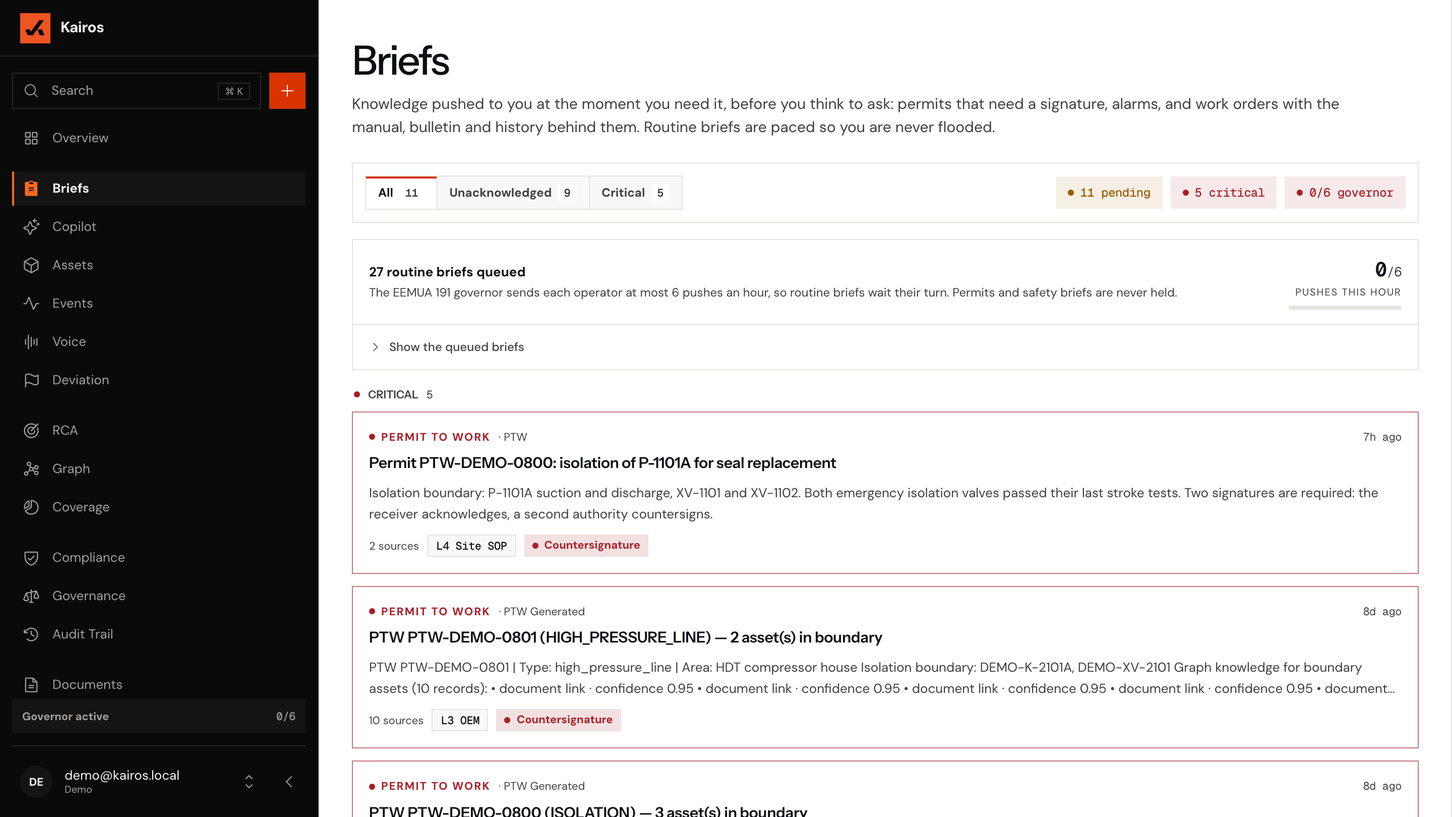
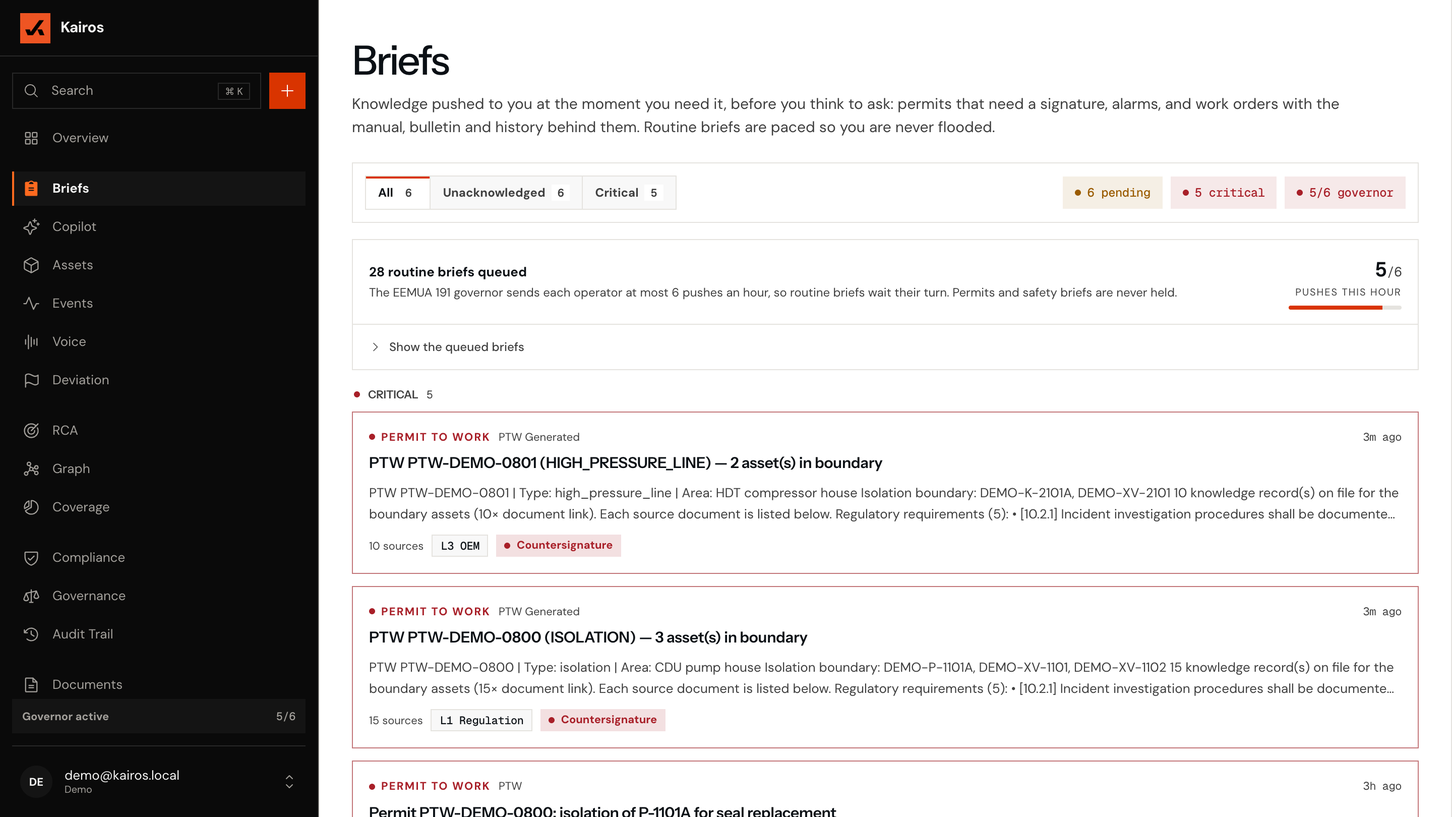
fix: rail governor pill matches the Briefs page; recapture field.png after showcase reload
The pill read its count once, before the Briefs page recorded that visit's pushes, so it
showed 0/6 beside the page's 1/6. The Briefs page now broadcasts its fresh count
(GOVERNOR_UPDATED) and the pill listens. Docs: test counts, P30 and P32 closed.

Also adds docs/problem_statement/2nd_LaserHacks_2026.md, the 2nd LaserHacks 2026 brief in
the folder's format (paraphrased, with source notes).

diff --git a/frontend/src/components/app-shell.tsx b/frontend/src/components/app-shell.tsx
@@ -7,11 +7,11 @@ import { BrandLink } from "./brand-link";
 import { MobileAppHeader } from "./mobile-app-header";
 import { CommandPalette, ShortcutsHelp, type PaletteItem } from "./command-palette";
 import { getMe, logout } from "@/lib/auth";
-import { getToken, getGovernorState, getPlantState, isStrictAuth } from "@/lib/api";
+import { GOVERNOR_UPDATED, getToken, getGovernorState, getPlantState, isStrictAuth } from "@/lib/api";
 import { flushQueue } from "@/lib/idb";
 import { getUserInitials } from "@/lib/user-initials";
 import { ADMIN_VIEW_ROLES, routeAllowed, roleHome } from "./use-role";
-import type { Role, User, GovernorEventState, PlantState } from "@/lib/types";
+import type { Role, User, GovernorEventState, GovernorState, PlantState } from "@/lib/types";
 import { capitalize, cn } from "@/lib/utils";
 import { ThemeToggle } from "./theme-toggle";
 import { PageSkeleton } from "./skeleton";
@@ -99,6 +99,14 @@ function GovernorPill({ userId }: { userId: string }) {
     getGovernorState().then((r) => { if (alive && r.data) setGov(r.data); });
     return () => { alive = false; };
   }, [userId]);
+  useEffect(() => {
+    const onUpdate = (event: Event) => {
+      const fresh = (event as CustomEvent<GovernorState>).detail;
+      setGov((g) => (g ? { ...g, ...fresh } : g));
+    };
+    window.addEventListener(GOVERNOR_UPDATED, onUpdate);
+    return () => window.removeEventListener(GOVERNOR_UPDATED, onUpdate);
+  }, []);
   if (!gov) return null;
   const suppressed = gov.state === "suppressed";
   return (

diff --git a/frontend/src/components/brief-inbox.test.tsx b/frontend/src/components/brief-inbox.test.tsx
@@ -1,5 +1,6 @@
 import { cleanup, render, screen } from "@testing-library/react";
-import { afterEach, describe, expect, it } from "vitest";
+import { afterEach, describe, expect, it, vi } from "vitest";
+import { GOVERNOR_UPDATED } from "@/lib/api";
 import type { BriefsResponse } from "@/lib/types";
 import { BriefInbox } from "./brief-inbox";
 
@@ -100,5 +101,13 @@ describe("governor card", () => {
   it("shows a brief with no asset by its headline alone", () => {
     render(<BriefInbox response={{ ...response, suppressed_count: 1, suppressed_held: [queued] }} />);
     expect(screen.getByText("Show the queued briefs").closest("details")!.textContent).not.toMatch(/DEMO-GENERAL|null/);
+  });
+
+  it("hands its governor count to the rail, which read it before this page recorded the pushes", () => {
+    const seen = vi.fn();
+    window.addEventListener(GOVERNOR_UPDATED, seen);
+    render(<BriefInbox response={response} />);
+    window.removeEventListener(GOVERNOR_UPDATED, seen);
+    expect((seen.mock.calls[0][0] as CustomEvent).detail).toEqual({ push_count_last_hour: 2, ceiling: 8, state: "normal" });
   });
 });

diff --git a/frontend/src/components/brief-inbox.tsx b/frontend/src/components/brief-inbox.tsx
@@ -1,6 +1,7 @@
 "use client";
 
-import { useState } from "react";
+import { useEffect, useState } from "react";
+import { GOVERNOR_UPDATED } from "@/lib/api";
 import type { Brief, BriefPriority, BriefsResponse } from "@/lib/types";
 import { cn, priorityMeta, relativeTime } from "@/lib/utils";
 import { BriefCard } from "./brief-card";
@@ -77,6 +78,10 @@ function GovernorBanner({ response }: { response: BriefsResponse }) {
 export function BriefInbox({ response }: { response: BriefsResponse }) {
   const { briefs } = response;
   const [filter, setFilter] = useState<FilterKey>("all");
+  const { push_count_last_hour, ceiling, state } = response.governor_state;
+  useEffect(() => {
+    window.dispatchEvent(new CustomEvent(GOVERNOR_UPDATED, { detail: { push_count_last_hour, ceiling, state } }));
+  }, [push_count_last_hour, ceiling, state]);
   const criticalCount = briefs.filter((brief) => brief.priority === "critical").length;
 
   const filterTabs = [

diff --git a/frontend/src/lib/api.ts b/frontend/src/lib/api.ts
@@ -1136,6 +1136,10 @@ export function ackEvent(eventId: string, body: { user_id: string; role: string;
   return postJson<{ status: string }>(`/events/${encodeURIComponent(eventId)}/ack`, body);
 }
 
+// Listing briefs records the pushes it delivers, so the Briefs page holds a newer count than the
+// rail's pill; it broadcasts the count under this event name and the pill listens.
+export const GOVERNOR_UPDATED = "kairos:governor-updated";
+
 export async function getGovernorState(): Promise<Fetched<GovernorEventState | null>> {
   const data = await getJson<GovernorEventState>(`/briefs/governor/status`);
   return { data, source: "live" };

diff --git a/docs/implementation/status.md b/docs/implementation/status.md
@@ -31,7 +31,7 @@
 [`v2.0.0`](https://github.com/kr7shnasomani/kairos/releases/tag/v2.0.0) (`c654615`) and
 [`v1.0.0`](https://github.com/kr7shnasomani/kairos/releases/tag/v1.0.0) (`b81ed1f`). **Live:** frontend **https://kairos.deterium.xyz** (Vercel custom domain since 2026-10-16; `kairos-deterium.vercel.app` also works), API
 **https://kairos-deterium.duckdns.org** (one AWS EC2 host, [`DEPLOY.md`](../DEPLOY.md)). **Quality gates:**
-975 service-free backend tests (946 pass and 29 skip in the plain container, 2026-10-17), 373/373 frontend tests across 85 files (2026-10-17), `tsc`
+975 service-free backend tests (946 pass and 29 skip in the plain container, 2026-10-17), 374/374 frontend tests across 85 files (2026-10-17), `tsc`
 clean, `eslint` 0 errors, end-to-end flows 46/46 (2026-09-14). What is still open is listed under
 [Pending — as of 2026-10-17](#pending--as-of-2026-10-17).
 
@@ -632,9 +632,9 @@ Safety class as in [Next actions](#next-actions--in-order-with-their-safety-clas
 | P27 | **Landing page content gaps, and the owner's decisions on them (2026-10-16).** Checked against the 2nd LaserHacks 2026 judging rubric and its five-slide submission structure. **Not wanted (owner decision, do not re-file):** a builder or team section, pricing and market size, a rollout or roadmap section (the 30/60/90-day rollout already lives in `ARCHITECTURE.md` §7, published at `/docs/architecture`). **Open, not decided:** a comparison with named alternatives; the page compares Kairos only to "a chatbot over our documents" (FAQ, Basics). **Proposed: a Privacy and Security section.** The System section shows what each plane is built from and the rule it must follow; a security section would state the data-handling guarantees as promises a buyer can check, which the page currently spreads across the FAQ Access and Data tabs and one image alt text. Each candidate claim is verified in code: access is refused when the policy service is unreachable (`api/middleware/opa.py`, returns `self.debug`, off in production; policy in `infra/policies/kairos.rego`); role and site come from server-set token claims verified as ES256 (`dependencies.resolve_token`), and a blank site means no rows (`dependencies.site_scope`); extractions below 0.7 confidence are quarantined for human promotion (`services/ner.py:395`, `workflows/document_pipeline.py:779`); the vault never deletes and a fact is closed by `valid_to`, not removed; personal data is redacted at export, never at ingest, for the DPDP Act 2023 (`services/pii.py`); cross-site sharing is counts and failure codes only with a 2-event minimum (`services/cross_site.py`, `MIN_EVENTS = 2`), which is **not** a formal k-anonymity guarantee and must not be described as one; governance actions are written to `audit_log` (9 routers); the browser gets a CSP with `frame-ancestors 'none'`, `nosniff` and a referrer policy (`frontend/next.config.ts`) and the API is rate limited (`api/middleware/ratelimit.py`); CI runs CodeQL, a dependency audit and `govulncheck`. **The section must also say what is not covered:** document text goes to hosted model providers (NVIDIA NIM, Groq, Jina) because there is no on-prem inference; there is no external penetration test or certification; seeded passwords are not yet rotated (Security pass, item 2) | 🟢 | Design and copy are open. Keep it short (one card per guarantee, each naming its mechanism), and do not repeat the FAQ answers word for word: link to them or move them |
 | P28 | **Fixed 2026-10-16: re-run reads 18/20 (90%), 0 dangling, recorded in `RESULTS.md` §12; the summary row, the benchmarks table and `BENCHMARKS.md` now agree with the landing tile.** **The knowledge-graph linkage figure disagrees across the repo and the site.** `benchmark/RESULTS.md` (summary row, line 28, and §12, line 504) and this file's benchmarks table (§ Benchmarks, KG linkage row) give **18/21 (85%)** from the 2026-08-24 run. P20 above and the landing page (`page.tsx:320`, pinned by `page.test.tsx:143`) give **18/20 (90%)**, from a later run that was never recorded in `RESULTS.md` §12 | 🟢 | Done |
 | P29 | **Fixed 2026-10-16.** **`docs/ARCHITECTURE.md` renders one paragraph as a heading on `/docs/architecture`.** Line 725 (the poisoning-safeguards paragraph in §8) is followed immediately by `---` on line 726 with no blank line between them, so Markdown reads it as a setext H2: the public docs page shows the whole paragraph as a giant heading and gives it an anchor id hundreds of characters long | 🟢 | Done: blank line added; no other rule in the file follows text directly |
-| P30 | **Judge-facing fixes from the live review, 2026-10-16 and 17 (in the working tree, not committed or deployed).** (1) The Copilot's suggested questions named `P-101`; the first click answered "no failure history". Each of the four is now checked on the live site: P-1101A failure history (cited), P-1101A minimum flow (cited, with its MoC notice), HE-3xx pressure (refused by design, since a series names no single asset (S13), and the refusal carries the HE-301 MoC notice), V-247 isolation (refused). The landing walkthrough and input placeholders tell the same P-1101A story. (2) The RCA pack drops test artifacts from its evidence **before** synthesis: `test_qa_submission_…txt` was a cited source and one hypothesis rested on it. (3) Brief bodies read dates as dates (`_when`), name shift leads, describe work orders and alarms instead of printing event ids, and no longer print raw document ids with scores or five identical `document link` lines. Tag-out and inspection briefs cite the asset's linked documents; a brief with no document says so instead of `0 sources` beside an L5 badge. (4) System Health lists the synthesis tiers in cascade order with OpenRouter and without the retired model name; event labels keep plant acronyms (`PTW Generated`); a permit brief reads "Permit to work". (5) The pending-MoC notice was built from every retrieved document, so any question whose six results included a P-1101A document carried `MOC-DEMO-0002`; it now follows the cited sources, then the assets the question names, then everything retrieved (`llm.disclosed_sources`). (6) **The 14 Sept QA sweep's test records were deleted with the owner's approval** (2026-10-17, after a read-only dry run and a JSON backup of every row in `../kairos-backups/qa-sweep-deleted-2026-10-17.json`): from Supabase the "QA check work order" event, the brief it generated, the "QA: scoring…" elicitation response and the "." voice note (formerly P10), their elicitation session and the `QA-TEST-155635` asset; from Neo4j the event's graph copy (one `OCCURRED_ON` link to EQ-101) and the asset node (no links). Kept on purpose: the asset's `audit_log` row and the vault files (immutable). The read-time work-order filter added for that event earlier the same day was removed with it. (7) **Review, audit and security pass, 2026-10-17** (`/code-review`, `/ponytail-audit`, `/security-review`). Fixed: tag-out and inspection briefs could cite test-suite files (brief sources now go through `corpus.document_rows` and drop test artifacts); a series question ("HE-3xx") lost its MoC notice; the failure-timeline filter hid rows without reporting a count; a date with no offset was stamped UTC; `triggerLabel` duplicated `lib/labels.ts` and is now built on `label()`; the disclosure rule moved out of the router into `llm.disclosed_sources`; a whitespace-only re-indent of the landing arrays was reverted. **Security:** the MoC notice's named-asset fallback looked up any typed asset id with no tenant check, so a refusal could disclose conflicts on a showcase or another site's asset; it now only ever narrows the retrieved, tenant-scoped sources. **Dead code removed** (finishing `code-review.md` C11, S9, S12): five uncalled fetchers plus `createAnnotation`, the unreachable Copilot entity chips, `ErrorBoundary`, `CardContent`/`CardFooter`, `TrendDelta` and the unused `KpiCard` delta/spark props, `EvidenceLineage.auditEntries`, `FIELD_ROLES`, `ListEnvelope`, `getQueueLength`, `useAnimatedNumber`, two date helpers, the unused MoC fixture file, `GraphService.health_check` and the `@playwright/test` dependency; `GET /search` now reads `vault_url` through `document_rows`, so a failed lookup drops links instead of the results. (8) **Landing screenshots recaptured** (`tools/capture_landing_shots.sh`, run as the demo account instead of admin, against the local API on Super): no QA items, demo identity, RCA timeline with the real event only. The RCA timeline printed the backend table name `operational_events` as an event's source, because its label map was keyed on `supabase`, a value the backend never sends; it now reads "plant events" (with a test). `field.png` still shows the old stored brief text until the showcase reload (P32). (9) **The desktop sidebar is no longer collapsible** (owner decision 2026-10-17): the toggle, the `data-nav` preference, its pre-paint script entry and the collapsed-state CSS are gone; from `lg` up the rail is fixed at 316 px, and below `lg` (phones and small tablets) the menu-button drawer is unchanged. A stored `kairos-nav=collapsed` from before no longer has any effect (checked in the browser). (10) **End-to-end check on the local stack as the demo user:** all 27 main routes render real content with no error state; the Copilot answers the first suggested question from NVIDIA NIM on Super with four dated failures and the correct P-1101A MoC notice, and refuses the V-247 isolation question with no unrelated notice; the RCA example builds a verified pack; the new domain `kairos.deterium.xyz` signs in and loads data (CORS). (11) **Live QA after the 2026-10-17 deploy** (demo login on `kairos.deterium.xyz`, 33 pages and 6 detail pages, Copilot, RCA, phone width) found three layout faults, all fixed: the Copilot's New chat button spanned the page under the rail, because the unlayered `.fill-sweep { position: relative }` beat its `absolute` utility (the rule now sits in `@layer components`, and the conversation gained top padding so the button no longer covers the first question); the phone menu drawer and More sheet sat at `z-40`, level with in-page controls, so the Copilot buttons drew over the open drawer (now `z-50`, like the user menu); and the menu drawer did not close on Escape (it does now, like the sheet). Brief labels lost their `·` separator (UI copy rule). Docs updated: `API.md`, `BACKEND.md`, `FRONTEND.md`, `TESTS.md`, `AGENTS.md`, `INFRA.md`, `code-review.md` | 🟢 | **Ship as one commit with the rest of this batch**, then a backend redeploy (EC2) and the Vercel rebuild the push triggers. Verified 2026-10-17: frontend 373/373, `tsc` clean, eslint 0 errors, production build passes; backend service-free 946 pass, 29 skip (973 pass, 2 skip with `infra/` and `.github/` mounted, as CI runs it); ruff 0.15.8 clean on the whole backend (CI pins 0.16.0, not run locally); Go connector `go build`, `go vet`, `go test` and `gofmt` clean in the `kairos-backend-go` container (Go 1.26.9). Not run: `golangci-lint`, `govulncheck`, `pip-audit`, `npm audit` (no Go or Python dependency changed; the npm lockfile only lost `@playwright/test`) |
+| P30 | **Judge-facing fixes from the live review, 2026-10-16 and 17 (committed and deployed 2026-10-17, `a412264` and `072b41e`).** (1) The Copilot's suggested questions named `P-101`; the first click answered "no failure history". Each of the four is now checked on the live site: P-1101A failure history (cited), P-1101A minimum flow (cited, with its MoC notice), HE-3xx pressure (refused by design, since a series names no single asset (S13), and the refusal carries the HE-301 MoC notice), V-247 isolation (refused). The landing walkthrough and input placeholders tell the same P-1101A story. (2) The RCA pack drops test artifacts from its evidence **before** synthesis: `test_qa_submission_…txt` was a cited source and one hypothesis rested on it. (3) Brief bodies read dates as dates (`_when`), name shift leads, describe work orders and alarms instead of printing event ids, and no longer print raw document ids with scores or five identical `document link` lines. Tag-out and inspection briefs cite the asset's linked documents; a brief with no document says so instead of `0 sources` beside an L5 badge. (4) System Health lists the synthesis tiers in cascade order with OpenRouter and without the retired model name; event labels keep plant acronyms (`PTW Generated`); a permit brief reads "Permit to work". (5) The pending-MoC notice was built from every retrieved document, so any question whose six results included a P-1101A document carried `MOC-DEMO-0002`; it now follows the cited sources, then the assets the question names, then everything retrieved (`llm.disclosed_sources`). (6) **The 14 Sept QA sweep's test records were deleted with the owner's approval** (2026-10-17, after a read-only dry run and a JSON backup of every row in `../kairos-backups/qa-sweep-deleted-2026-10-17.json`): from Supabase the "QA check work order" event, the brief it generated, the "QA: scoring…" elicitation response and the "." voice note (formerly P10), their elicitation session and the `QA-TEST-155635` asset; from Neo4j the event's graph copy (one `OCCURRED_ON` link to EQ-101) and the asset node (no links). Kept on purpose: the asset's `audit_log` row and the vault files (immutable). The read-time work-order filter added for that event earlier the same day was removed with it. (7) **Review, audit and security pass, 2026-10-17** (`/code-review`, `/ponytail-audit`, `/security-review`). Fixed: tag-out and inspection briefs could cite test-suite files (brief sources now go through `corpus.document_rows` and drop test artifacts); a series question ("HE-3xx") lost its MoC notice; the failure-timeline filter hid rows without reporting a count; a date with no offset was stamped UTC; `triggerLabel` duplicated `lib/labels.ts` and is now built on `label()`; the disclosure rule moved out of the router into `llm.disclosed_sources`; a whitespace-only re-indent of the landing arrays was reverted. **Security:** the MoC notice's named-asset fallback looked up any typed asset id with no tenant check, so a refusal could disclose conflicts on a showcase or another site's asset; it now only ever narrows the retrieved, tenant-scoped sources. **Dead code removed** (finishing `code-review.md` C11, S9, S12): five uncalled fetchers plus `createAnnotation`, the unreachable Copilot entity chips, `ErrorBoundary`, `CardContent`/`CardFooter`, `TrendDelta` and the unused `KpiCard` delta/spark props, `EvidenceLineage.auditEntries`, `FIELD_ROLES`, `ListEnvelope`, `getQueueLength`, `useAnimatedNumber`, two date helpers, the unused MoC fixture file, `GraphService.health_check` and the `@playwright/test` dependency; `GET /search` now reads `vault_url` through `document_rows`, so a failed lookup drops links instead of the results. (8) **Landing screenshots recaptured** (`tools/capture_landing_shots.sh`, run as the demo account instead of admin, against the local API on Super): no QA items, demo identity, RCA timeline with the real event only. The RCA timeline printed the backend table name `operational_events` as an event's source, because its label map was keyed on `supabase`, a value the backend never sends; it now reads "plant events" (with a test). `field.png` still shows the old stored brief text until the showcase reload (P32). (9) **The desktop sidebar is no longer collapsible** (owner decision 2026-10-17): the toggle, the `data-nav` preference, its pre-paint script entry and the collapsed-state CSS are gone; from `lg` up the rail is fixed at 316 px, and below `lg` (phones and small tablets) the menu-button drawer is unchanged. A stored `kairos-nav=collapsed` from before no longer has any effect (checked in the browser). (10) **End-to-end check on the local stack as the demo user:** all 27 main routes render real content with no error state; the Copilot answers the first suggested question from NVIDIA NIM on Super with four dated failures and the correct P-1101A MoC notice, and refuses the V-247 isolation question with no unrelated notice; the RCA example builds a verified pack; the new domain `kairos.deterium.xyz` signs in and loads data (CORS). (11) **Live QA after the 2026-10-17 deploy** (demo login on `kairos.deterium.xyz`, 33 pages and 6 detail pages, Copilot, RCA, phone width) found three layout faults, all fixed: the Copilot's New chat button spanned the page under the rail, because the unlayered `.fill-sweep { position: relative }` beat its `absolute` utility (the rule now sits in `@layer components`, and the conversation gained top padding so the button no longer covers the first question); the phone menu drawer and More sheet sat at `z-40`, level with in-page controls, so the Copilot buttons drew over the open drawer (now `z-50`, like the user menu); and the menu drawer did not close on Escape (it does now, like the sheet). Brief labels lost their `·` separator (UI copy rule). The rail's governor pill read its count once, before the Briefs page recorded that visit's pushes, so it said 0/6 beside the page's 1/6; the Briefs page now hands its fresh count to the pill (`GOVERNOR_UPDATED`, with a test). (12) **Showcase reloaded by the owner** after the deploy (`reset-showcase`, then `load-showcase`): the stored briefs now read with names and dates, the events run to the current day, real-mode counts unchanged; `field.png` recaptured as the demo account. Docs updated: `API.md`, `BACKEND.md`, `FRONTEND.md`, `TESTS.md`, `AGENTS.md`, `INFRA.md`, `code-review.md` | 🟢 | **Ship as one commit with the rest of this batch**, then a backend redeploy (EC2) and the Vercel rebuild the push triggers. Verified 2026-10-17: frontend 373/373, `tsc` clean, eslint 0 errors, production build passes; backend service-free 946 pass, 29 skip (973 pass, 2 skip with `infra/` and `.github/` mounted, as CI runs it); ruff 0.15.8 clean on the whole backend (CI pins 0.16.0, not run locally); Go connector `go build`, `go vet`, `go test` and `gofmt` clean in the `kairos-backend-go` container (Go 1.26.9). Not run: `golangci-lint`, `govulncheck`, `pip-audit`, `npm audit` (no Go or Python dependency changed; the npm lockfile only lost `@playwright/test`) |
 | P31 | **Synthesis model switched back to Nemotron 3 Super 120B (owner decision 2026-10-17); live on the server since the 2026-10-17 deploy, benchmark re-run the same day.** `nvidia/nemotron-3-ultra-550b-a55b` gave no response in 60 s (four tries over two days) or 150 s, while the NIM model list answered in 0.1 s and `nemotron-3-super-120b-a12b` (announced retired on 2026-10-03, served again) answered in under 1 s, so every Copilot answer was coming from the OpenRouter fallback. Repo side done: `config.py` default, `.env` and `.env.example`, System Health label, `AGENTS.md`, `ARCHITECTURE.md`, `BACKEND.md`, `API.md`, `DIAGRAMS.md`, `README.md`. Left on purpose: every benchmark figure, the landing figures and `PRESENTATION.md` still say Ultra, because 43/46 was measured on Ultra; they change with the re-run. If NVIDIA withdraws Super again, the cascade falls through to OpenRouter as it does today. **Latency, measured 2026-10-17** on an answer-sized request (3,398 prompt tokens, six sources, up to 350 output tokens, six tries each, straight to NIM): Super median 4.0 s, worst 13.9 s, 6 of 6 answered; Lightning median 51 s with 4 of 6 timing out at 60 s. So routing simple lookups to Lightning, proposed as a latency fix, would make answers slower; it was dropped. Lightning answered a one-line prompt in 0.4 s, which is why it looked fast | 🟡 | **Server done 2026-10-17:** `NVIDIA_NIM_MODEL` set in the server `.env` (backup `.env.bak.20261017-*`) and the backend redeployed (`tools/deploy_backend.sh`, backup `~/kairos.bak-20261017-122423`). **Benchmark re-run 2026-10-17 on Super:** 40/46 golden plant (quoted), 38/46 on live with the showcase visible; figures replaced in the landing page, `RESULTS.md`, `BENCHMARKS.md`, `PRESENTATION.md` and here. SSH works again (the security group was re-pinned to the current IP on 2026-10-16) |
-| P32 | **Owner-only steps before judging (each writes to a cloud store).** Reload the showcase so stored briefs pick up the P30 text (`make reset-showcase APPLY=1` then `make load-showcase APPLY=1`, then recopy the `_demo` search indices, P21); then re-run `tools/capture_landing_shots.sh` as the demo account, so `field.png` shows the clean briefs. The showcase events also need bringing forward: the overview's 14-day events chart is empty after 8 Oct because the showcase history stops there. **Done 2026-10-17:** the owner ran `make redate-showcase APPLY=1` (8 days; 699 events, 29 briefs, 10 conflicts, 5 MoC, 25 quarantine items and the rest of the showcase rows), and the live chart now runs to the current day; the landing shots were recaptured after it. `SHOWCASE_AUTO_REDATE=true` (owner-approved) is set in the server `.env` since the 2026-10-17 deploy, so it stays current | 🔴 | The showcase reload is the owner's to run: the bulk delete in `reset_showcase.py` is refused to the agent |
+| P32 | **Owner-only steps before judging (each writes to a cloud store).** Reload the showcase so stored briefs pick up the P30 text (`make reset-showcase APPLY=1` then `make load-showcase APPLY=1`, then recopy the `_demo` search indices, P21); then re-run `tools/capture_landing_shots.sh` as the demo account, so `field.png` shows the clean briefs. The showcase events also need bringing forward: the overview's 14-day events chart is empty after 8 Oct because the showcase history stops there. **Done 2026-10-17:** the owner ran `make redate-showcase APPLY=1` (8 days; 699 events, 29 briefs, 10 conflicts, 5 MoC, 25 quarantine items and the rest of the showcase rows), and the live chart now runs to the current day; the landing shots were recaptured after it. `SHOWCASE_AUTO_REDATE=true` (owner-approved) is set in the server `.env` since the 2026-10-17 deploy, so it stays current | 🟢 | **Done 2026-10-17:** the owner ran the reload after the deploy; briefs, events and `field.png` checked. The search-index copy (P21) was not needed: the reload changed no document or asset |
 | P33 | **The time-to-answer figure (−19.9% on 46 questions, re-run 2026-10-17; −9.5% on 37 before) cannot be made a measurement by code.** Everything in `run_time_to_answer.py` is measured (keyword search latency, Kairos answer latency, and how far down the keyword ranking the answer-bearing document sits) except one input: `SECONDS_PER_DOCUMENT = 120`, the time an engineer takes to open a document and decide whether it holds the fact. Replacing that assumption needs people timed doing the task. Re-run on all 46 questions on 2026-10-17 (local API, Super): 124.0 → 99.4 modelled minutes, Kairos machine time 9.6 s | 🟡 | Owner's call: a short timed trial (a few people answer the same golden questions once with keyword search and once with Kairos, timed) would replace the assumption with a measured number; until then the landing card keeps saying "Modelled" |
 | P8 | Backlog carry-overs: D3 `COMPONENT` labels (deliberately deferred). Synthesis verdict (#8) recorded 2026-10-16 and form parsing (#6) closed 2026-10-09 | 🟢 | See [Next actions](#next-actions--in-order-with-their-safety-class) and the [Backlog](#improvement-backlog) |
 

diff --git a/docs/problem_statement/2nd_LaserHacks_2026.md b/docs/problem_statement/2nd_LaserHacks_2026.md
@@ -1,0 +1,243 @@
+# 2nd LaserHacks 2026
+
+An online hackathon run by the Cybersecurity Program at Lasell University (Auburndale, Massachusetts), with the Soft Computing Research Society (SCRS) as technical sponsor and the WiCyS Lasell Student Chapter as organising partner. Teams pick a problem inside one of the published technology themes, submit an idea in Round 1, and the shortlisted teams present a working prototype live to a jury over Google Meet in Round 2. There is no single problem statement: the theme is open within each track.
+
+| | |
+|---|---|
+| **Prize pool** | $1,500 (Winner $750, First Runner-Up $500, Second Runner-Up $250); finalists receive certificates |
+| **Registration** | 10 August to 15 October 2026 (Unstop listing closed 12 October) |
+| **Round 1 deadline** | 15 October 2026 |
+| **Shortlist announced** | 16 October 2026 (emails went out on the evening of 15 October, IST) |
+| **Final presentations** | 17 and 18 October 2026, 09:30 to 11:30 EDT (19:00 to 21:00 IST), online |
+| **Winners announced** | 22 October 2026, at the closing ceremony |
+| **Hosted on** | [laserhacks2026.thescrs.org](https://laserhacks2026.thescrs.org/) and Unstop |
+
+**Contents:** [About](#about) · [Rounds and format](#rounds-and-format) · [Eligibility and rules](#eligibility-and-rules) · [Submission guidelines](#submission-guidelines) · [Judging](#judging) · [Program schedule](#program-schedule) · [Judges](#judges) · [Source notes](#source-notes)
+
+---
+
+# About
+
+## Purpose
+
+LaserHacks is the SCRS Chapter at Lasell University's annual hackathon, meant to bring people from different backgrounds together to solve real-world problems with technology. Its stated goals are innovation and creative problem-solving, building a community of developers, designers and entrepreneurs, connecting participants with industry mentors and employers, and solutions for social good. The tagline is *Think, Hack, Build, Impact*. This is the second edition; the first ran online on 15 and 16 November 2025.
+
+## Themes
+
+Participants choose a problem within any of these domains. A project that spans several should name one primary category and mention the others in the presentation.
+
+| Theme | Focus |
+|---|---|
+| Artificial Intelligence (AI) | Machine learning models, NLP, computer vision, predictive analytics, AI-powered automation |
+| Cybersecurity | Network security, encryption, vulnerability detection, secure authentication, data privacy |
+| Internet of Things (IoT) | Smart devices, sensor networks, home automation, industrial IoT, edge computing |
+| Image Processing | Computer vision, medical imaging, facial recognition, image enhancement, object detection |
+| Blockchain & FinTech | Decentralised applications, smart contracts, cryptocurrency, digital payments |
+| HealthTech | Telemedicine, wearables, AI diagnostics, medical data analysis |
+| AR/VR & Metaverse | AR and VR experiences, 3D environments, immersive education, digital twins |
+| Web3 & DApps | Decentralised web apps, NFTs, DAOs, Web3 infrastructure |
+| Smart Cities | Urban technology, smart transport, energy management, digital governance |
+| EdTech & E-Learning | Online learning, personalised education AI, virtual classrooms, skill assessment |
+| Securing the Next 250 | Future-ready cybersecurity, privacy, threat detection, resilient digital systems |
+
+The program schedule groups the shortlisted teams into five track types: Artificial Intelligence, Cybersecurity, EdTech & E-Learning, HealthTech, and Open Innovation.
+
+---
+
+# Rounds and format
+
+## Round 1: Idea submission
+
+A short document (Unstop: a 2-page PDF or PPT) covering the problem statement and chosen theme, the proposed solution and its unique features, the technology stack, and real-world impact and feasibility. It is evaluated on innovation, clarity, feasibility and relevance. The website's submission guidelines ask for a five-slide deck instead (see [Submission guidelines](#submission-guidelines)).
+
+## Round 2: Prototype and final presentation
+
+Shortlisted teams build a working prototype or MVP and present it live, virtually, to a jury from academia and industry.
+
+**Presenter instructions** (Program Schedule page, Instructions tab):
+
+- All presentations are online on Google Meet; each session has a **Join** button on its date tab.
+- Join at least **5 minutes** before the scheduled time. Times are given in EDT (GMT-4) and IST (GMT+5:30).
+- Keep mic and video off unless asked to unmute.
+- Have slides ready and check mic and video in advance.
+- Session judges call presenters one by one.
+- Slides may be in **any format**.
+- Each team gets **10 minutes to present and 2 minutes of Q&A**.
+
+The About page describes the event as a 24-hour hackathon with workshops, mentorship and networking; none of these appear on the published schedule.
+
+---
+
+# Eligibility and rules
+
+## Who can enter
+
+Undergraduate and graduate students (master's and PhD) in any discipline, graduates from the last year, and working professionals. No restriction on age, background or specialisation.
+
+## Team formation
+
+- Individuals, or teams of 2 to 4 members (the Unstop listing says teams of 2 to 4 are mandatory, and its header says 1 to 2).
+- Teams may be interdisciplinary and may mix institutions or organisations.
+- Each team names one leader for registration and communication.
+
+## Project requirements
+
+- Projects must be original, innovative, and created during the hackathon period.
+- Solutions must align with one or more themes.
+- Teams must show technical feasibility and potential real-world impact.
+- All code and materials go to the hackathon platform by the deadline.
+
+## Participation rules
+
+- Submit the idea by 15 October 2026.
+- Be present (in person or virtually) for the event, and present in the assigned slot.
+- Plagiarism, or use of pre-existing projects, leads to immediate disqualification.
+- Follow the LaserHacks Code of Conduct (referenced, but not published on the site).
+
+## Other terms (Unstop listing)
+
+- Keep a respectful, inclusive environment; misconduct leads to disqualification.
+- Open-source tools and APIs are allowed with proper attribution.
+- Teams keep full IP rights; organisers may showcase projects for non-commercial promotion.
+- Late submissions are not evaluated. Organisers may revise rules or timelines with prior notice.
+
+---
+
+# Submission guidelines
+
+## The five slides
+
+| Slide | Covers |
+|---|---|
+| 1. Team & Institution | Institution name and logo, team name, members and their roles, team leader's email and phone |
+| 2. Problem & Innovation Opportunity | The specific problem, why traditional approaches fall short, supporting statistics or examples, the potential of emerging technology |
+| 3. Solution & Technical Approach | Core systems and frameworks, how emerging technology (AI, IoT, cybersecurity) is used, what is unique in the implementation, data integration, methodology, system architecture |
+| 4. Impact & Technical Feasibility | Quantified benefits, computational requirements and scalability, comparison with existing approaches, performance metrics and validation results |
+| 5. Implementation & Scaling Strategy | Roadmap and milestones, deployment and maintenance challenges, scaling across domains or industries, continuous improvement |
+
+## File and supporting material
+
+- PowerPoint (`.ppt` or `.pptx`) with embedded fonts, at most 15 MB, named `TeamName_Institution_Category.pptx`.
+- Optional: a 2 to 4 minute demo video of a working prototype, uploaded to YouTube, with the link given at registration.
+- Choose one primary category; mention any others in the deck.
+- Deadline 15 October 2026, through the LaserHacks platform (the registration Google Form). Late submissions are not considered.
+
+---
+
+# Judging
+
+## Criteria
+
+| Criterion | Weight | Assessed on |
+|---|---:|---|
+| Innovation & Creativity | 25% | Novel application of technology; creative problem-solving; unique features; innovation in user experience design |
+| Technical Excellence | 25% | Code quality and architecture; effective use of chosen technologies; performance and optimisation; security and best practices |
+| Real-World Impact | 20% | Addresses a real problem or need; potential user base and reach; social or environmental benefit; economic viability |
+| Feasibility & Scalability | 15% | Implementation feasibility; scalability potential; resource efficiency; market readiness |
+| Presentation & Demo | 10% | Clear, engaging presentation; quality of demo and documentation; team collaboration and communication; response to Q&A |
+| Completeness | 5% | Working prototype or MVP; feature completeness; user interface and experience; documentation and code quality |
+
+## Process
+
+Teams present to a panel of judges from industry and academia. The Judging Criteria page gives 10 minutes of presentation followed by a 5-minute Q&A; the Program Schedule gives 2 minutes (see [Source notes](#source-notes)). Judges score each project against the criteria above, and winners are announced at the closing ceremony on 22 October 2026. The site does not say how winners are chosen across tracks.
+
+## How judges are appointed
+
+Judges are invited or nominated from industry, academia, subject-matter experts and investors, reviewed by the organising committee for balance, checked for conflicts of interest, and given written evaluation guidelines and an orientation. They are expected to have significant experience in one of the themes, judge both technical feasibility and business viability, and give feedback.
+
+## Judge recognition awards
+
+Judges themselves are recognised on 22 October: Best Judge for AI Innovation, Cybersecurity Excellence, IoT Innovation, Image Processing & Computer Vision, Best Mentor Judge, and Best Judge for Identifying Scalable Solutions. Every judge receives a certificate of appreciation.
+
+---
+
+# Program schedule
+
+All sessions run online. 17 October has the inauguration and Tracks 01 to 08; 18 October has Tracks 09 to 15. Every track runs **09:30 to 11:30 EDT (19:00 to 21:00 IST)**.
+
+| Session | Day | Time (EDT / IST) | Link |
+|---|---|---|---|
+| Inauguration | 17 Oct | 09:00–09:30 / 18:30–19:00 | Zoom (link on the schedule page) |
+| Track 01, Artificial Intelligence | 17 Oct | 09:30–11:30 / 19:00–21:00 | Google Meet |
+| Tracks 02 to 08 | 17 Oct | same | Google Meet, one link per track |
+| Tracks 09 to 15 | 18 Oct | same | Google Meet, one link per track |
+
+| Track | Day | Theme | Teams |
+|---|---|---|---:|
+| 01 | 17 Oct | Artificial Intelligence | 10 |
+| 02 | 17 Oct | Cybersecurity | 8 |
+| 03 | 17 Oct | EdTech & E-Learning | 10 |
+| 04 | 17 Oct | HealthTech | 10 |
+| 05 | 17 Oct | Open Innovation | 10 |
+| 06 | 17 Oct | Artificial Intelligence | 11 |
+| 07 | 17 Oct | Cybersecurity | 9 |
+| 08 | 17 Oct | Artificial Intelligence | 10 |
+| 09 | 18 Oct | Open Innovation | 8 |
+| 10 | 18 Oct | Artificial Intelligence | 11 |
+| 11 | 18 Oct | Cybersecurity | 9 |
+| 12 | 18 Oct | Open Innovation | 10 |
+| 13 | 18 Oct | Cybersecurity | 10 |
+| 14 | 18 Oct | Artificial Intelligence | 10 |
+| 15 | 18 Oct | Cybersecurity | 8 |
+
+144 shortlisted teams in all. The schedule gives each track's team list in order but no per-team times; ten teams in two hours works out to the 10 + 2 minute slot.
+
+---
+
+# Judges
+
+## Listed on the website (20)
+
+| Judge | Role |
+|---|---|
+| Dr. Sandeep Kumar | Professor, CHRIST (Deemed to be University), Bangalore (also convener) |
+| Prof. Mukesh Saraswat | Professor and Associate Dean, Jaypee Institute of Information Technology, Noida |
+| Prof. Varshitha Manjunath | Secretary, IEEE Boston Section 2026 (also convener) |
+| Prof. Shahid Hussain | Associate Professor of Biomedical Robotics, University of Canberra |
+| Prof. Touhid Bhuiyan | Washington University of Science and Technology |
+| Prof. Prashant Jamwal | Nazarbayev University |
+| Prof. Eva Tuba | Trinity University |
+| Prof. Mohammad Shorifuddin | Jahangirnagar University |
+| Rohit Desai | Software Engineer, Apple |
+| Shubh Prabhat | Solution Architect, GlobalLogic (a Hitachi Group company) |
+| Heta Patel | Senior SAP Technical Architect, Doterra International |
+| Rengarajan Jegadeesan | Senior Software Engineer, Microsoft |
+| Gagan Vyas | Member of Technical Staff, Everpure |
+| Manjeera Chanda | Senior MuleSoft Architect, GoodRx |
+| Prince Kumar | Principal Enterprise Architect, enterprise architecture and AI governance |
+| Abhishek Pandurang Benke | Occupational Health and Safety Officer |
+| Bharathi Sesha Sai Varanasi | Cybersecurity Architect, Leidos |
+| Taranath Pandit | Director, Software Architecture, Fiserv |
+| Vamsi Viswanath Bethamsetty | Independent Researcher, University of Florida |
+| Rasmi Ranjan Choudhury | Assistant Chief Engineer, Stellantis |
+
+The program schedule names about 38 session judges in total; most do not appear on the judges page.
+
+## Track 01 panel (Artificial Intelligence, 17 October)
+
+| Judge | Role as given on the schedule |
+|---|---|
+| Rohit Desai | Software Development Engineer ICT3, Apple |
+| Viswanath Bethamsetty | Independent Researcher, University of Florida |
+| Shubh Prabhat | Solution Architect, GlobalLogic (a Hitachi Group company) |
+
+**Contacts:** participant queries to `hackathon@scrs.in`; general queries to `scrs@lasell.edu` and `vmanjunath@lasell.edu`. Conveners: Prof. Varshitha Manjunath and Dr. Sandeep Kumar.
+
+---
+
+# Source notes
+
+- **Website:** <https://laserhacks2026.thescrs.org/>, pages Home, About Us, Timeline, Hackathon Themes, Eligibility Criteria, Judging Criteria, Submission Guidelines, Judge Appointment Criteria, Judge Recognition Awards, Judges (and the 20 judge pages), Venue, and the [Program Schedule](https://laserhacks2026.thescrs.org/laser-hacks-2026-program-schedule/) (Instructions, 17 October and 18 October tabs). Read from the raw HTML on 16 October 2026; the Program Schedule was read again on 17 October and had not changed.
+- **Unstop listing:** "2nd LaserHack 2026, Lasell University" (`unstop.com/hackathons/2nd-laserhack-2026-lasell-university-1762843`). The text was pasted from the listing on 16 October; the page now redirects to Unstop's homepage.
+- **Emails:** the invitation (29 September) and the presentation-schedule email (15 October), both from `administrator@scrs.in`.
+- **Unlike the other files in this folder, the prose here is paraphrased, not copied word for word.** Dates, weights, names, tables and the presenter instructions are exact; read the originals at the links above for the organisers' wording.
+- **Not readable:** the Round 1 / registration Google Form (it now reports "no longer accepting responses"), and the on-site "Team Registration Form" (a leftover from the 2025 edition, with sustainability categories, not linked from any page). The site's FAQ, Contact, Sponsors and Gallery pages are unedited theme templates, and its blog holds injected spam posts; none of them carry event information.
+- **Where the sources disagree:**
+  - **Q&A length:** 2 minutes (Program Schedule, Instructions) against 5 minutes (Judging Criteria). The schedule is the more specific of the two, and ten teams in two hours only fits 12 minutes each.
+  - **Team size:** "individuals or teams of 2 to 4" (Eligibility) against "teams of 2 to 4 are mandatory" and "1 to 2 members" (Unstop).
+  - **Round 1 format:** a 2-page PDF or PPT (Unstop) against a five-slide `.pptx` (Submission Guidelines).
+  - **Registration close:** 12 October (Unstop) against 15 October (website and emails).
+  - **Event length:** a "24-hour hackathon" from 9:00 AM to 9:00 AM (About, Timeline) against two hours of presentations per day (Program Schedule).
+  - **Platform:** every session is on Google Meet except the inauguration, which is on Zoom.
+  - **Venue:** 1844 Commonwealth Avenue is given as both Auburndale and Newton, Massachusetts; the same place, and the event is online.
+- **Last year (LaserHacks 2025):** the [2025 site](https://laserhacks.thescrs.org/) ran Day 1 as a Selection Round and Day 2 as a Final Round for the teams shortlisted on Day 1, named a champion per category, and used the same judging criteria and submission guidelines word for word apart from the theme list. The 2026 schedule does not describe a final round.

diff --git a/docs/FRONTEND.md b/docs/FRONTEND.md
@@ -696,7 +696,7 @@ All four jobs run in parallel on `ubuntu-latest` with `node:20` and `npm ci` fro
 | `h-screen` → `h-dvh` | ✅ converted |
 | Token colors only (no `bg-white`, `text-gray-*`) | ✅ clean |
 | `@xyflow/react` in `package-lock.json` | ✅ resolved |
-| Test suite | **373 tests / 85 files**, all passing (2026-10-17; in a container mount `benchmark/` at `/benchmark` for `landing-figures.test.ts`) |
+| Test suite | **374 tests / 85 files**, all passing (2026-10-17; in a container mount `benchmark/` at `/benchmark` for `landing-figures.test.ts`) |
 | eslint | ✅ 0 errors (3 pre-existing unused-var warnings) |
 
 ---
